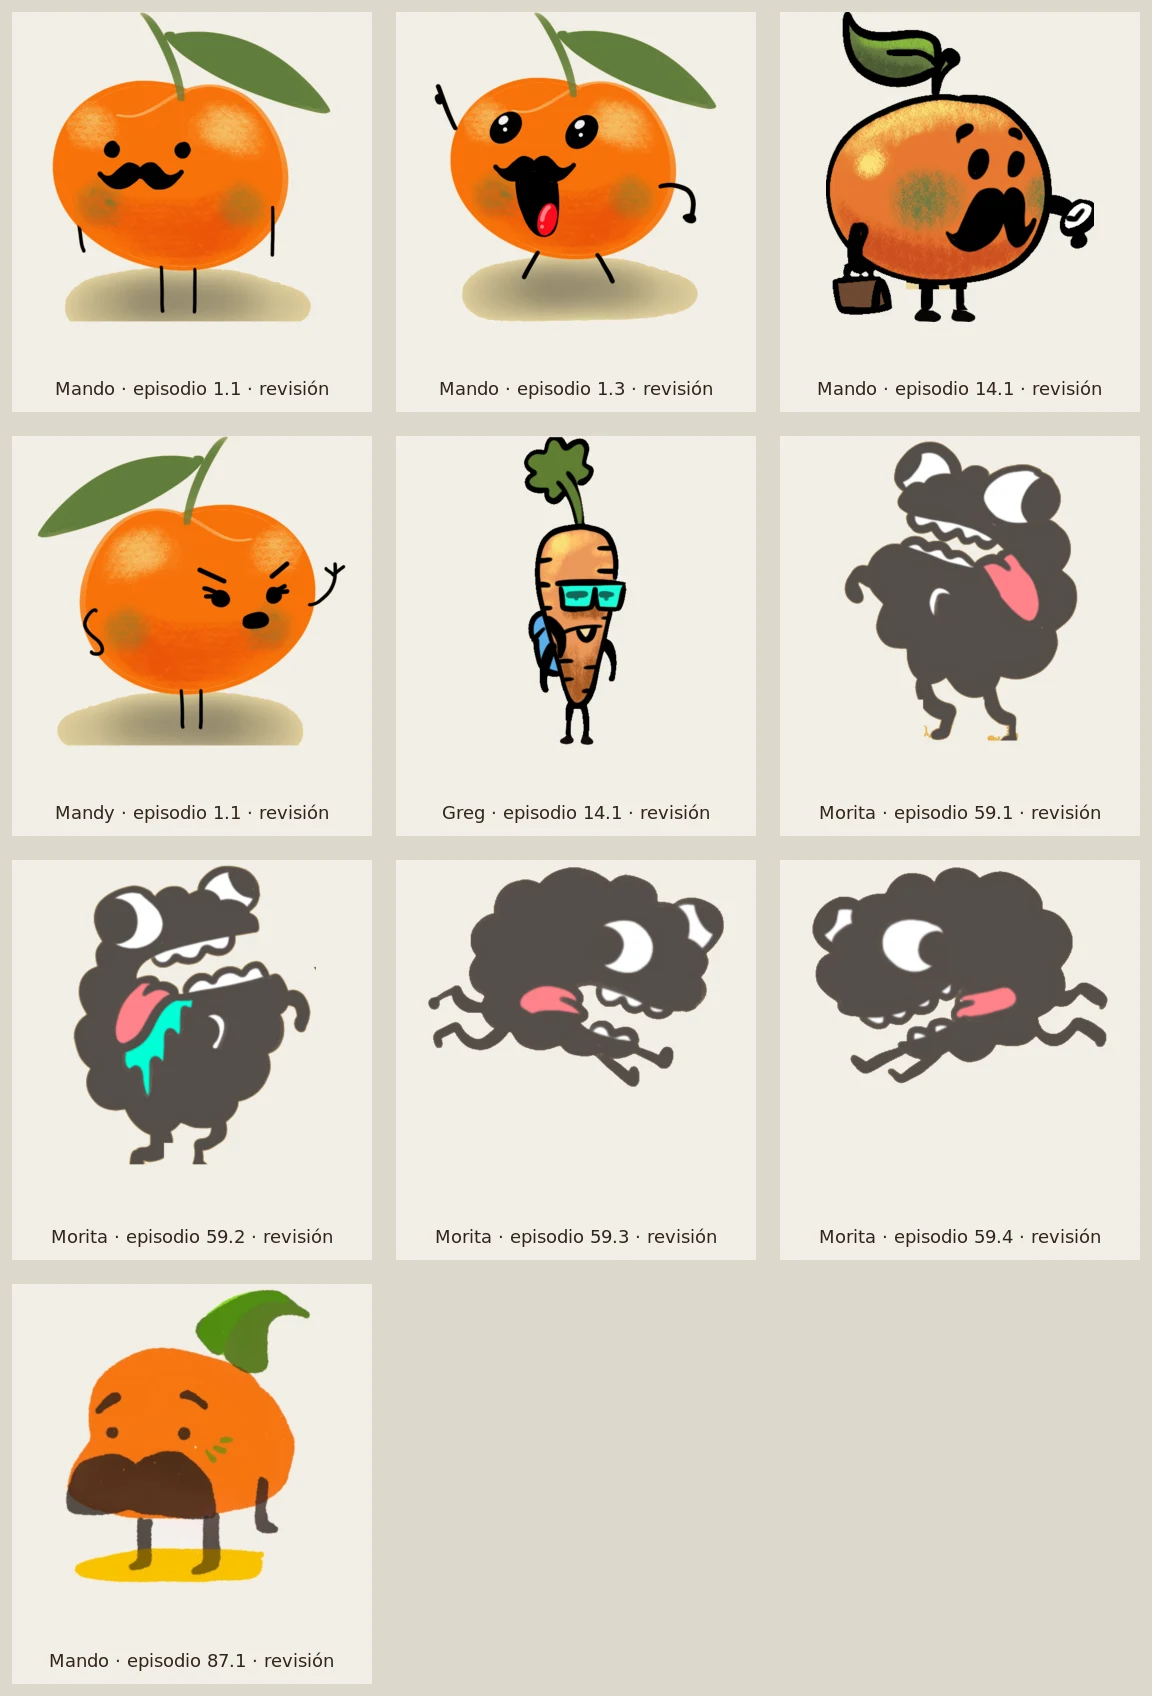
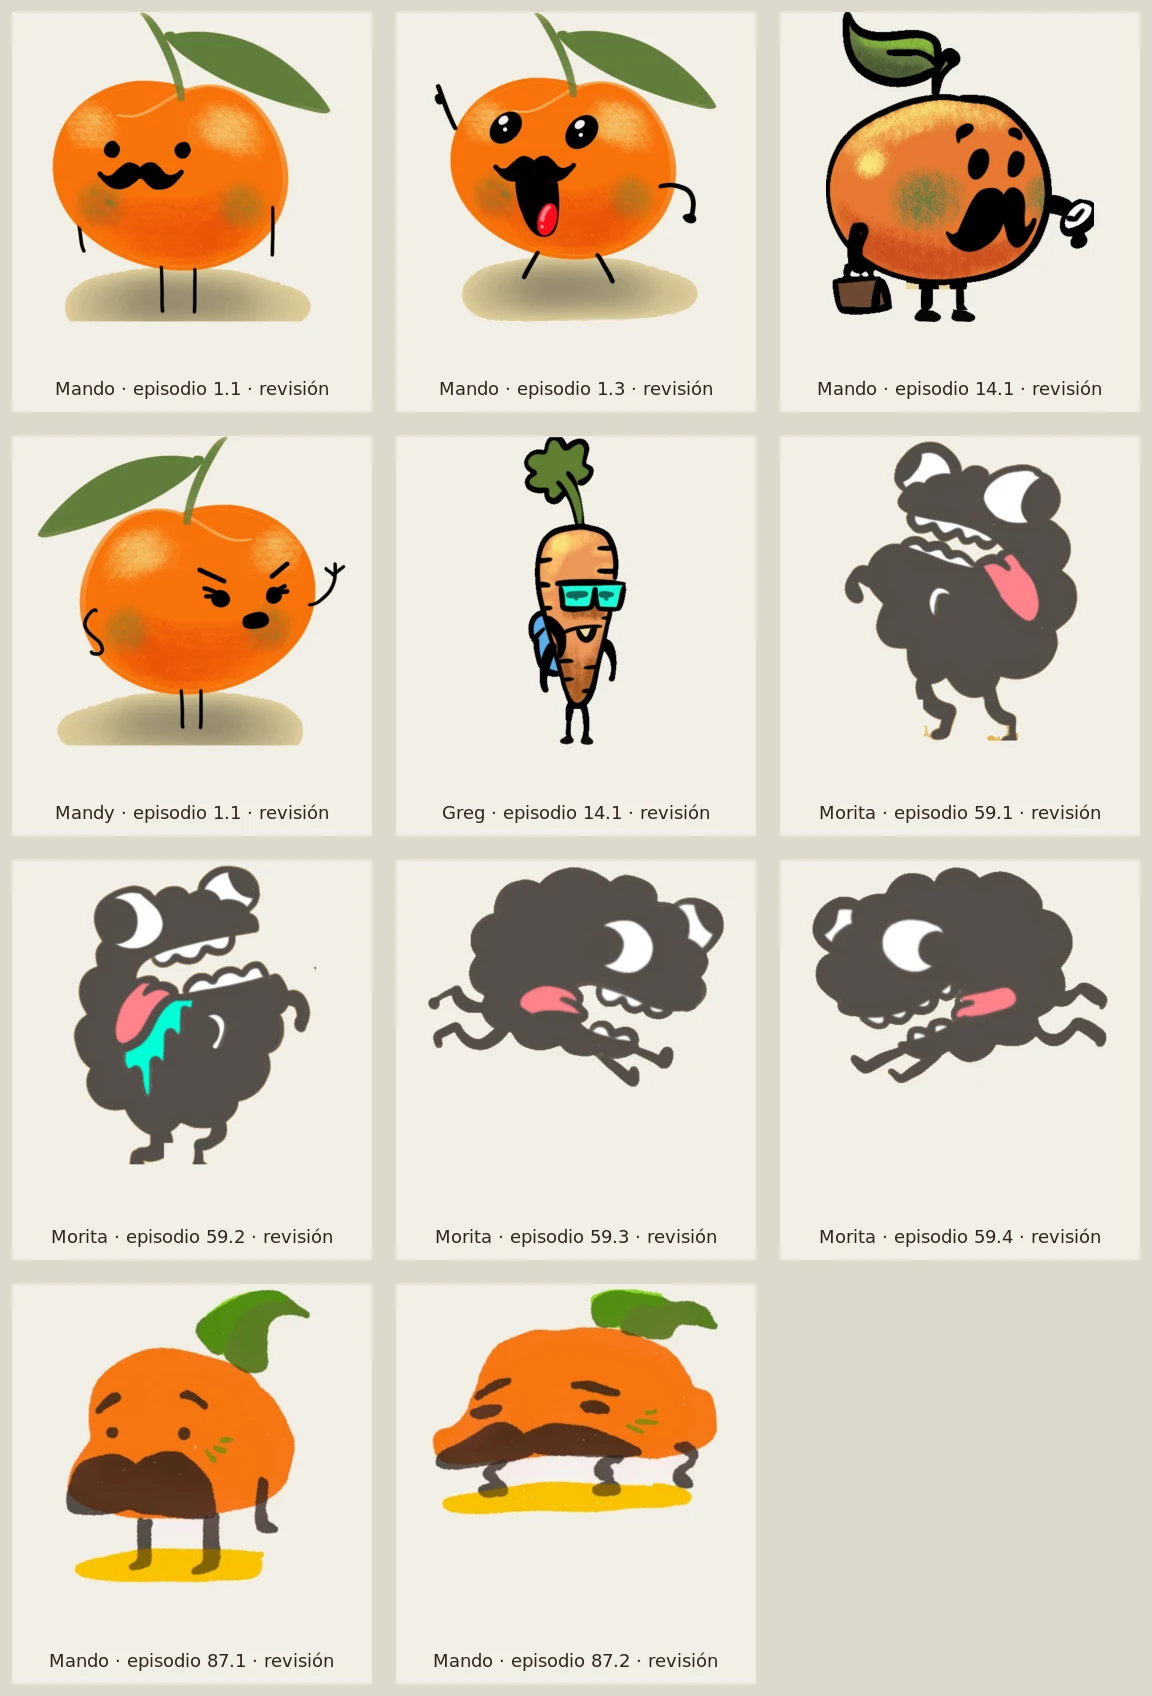
Add more Mando and object cutout drafts

Changed region(s): [[0.3438, 0.75, 0.6562, 1.0]]

diff --git a/editor.js b/editor.js
@@ -65,7 +65,8 @@
     { name: 'Sticker existente · pack 05', aliases: ['sticker 5', 'pack 5', 'logo'], src: 'assets/stickers/sticker-pack-05.webp', source: 'assets/stickers/sticker-pack-05.webp', note: 'Asset cuadrado opaco del pack existente. Contiene el logotipo sobre un círculo amarillo; se conserva como referencia, no como recorte de personaje.', reviewKind: 'existing-sticker' }
   ].map(resource => ({ ...resource, category: 'sticker', approvedCutout: false, reviewOnly: true }));
   const reviewObjectCutouts = [
-    { name: 'Clip de papel · episodio 85.3', aliases: ['clip', 'paperclip', 'sujetapapeles', 'episodio 85'], src: 'assets/objects/review/paperclip-episode-85-3-review.png', source: 'assets/episodes/ep-085-lo-que-siempre-te-pasa/85.3.png', note: 'Recorte en líneas grises de un clip personificado con brazos y piernas. No se le asignó nombre ni se decidió si debe catalogarse como objeto o personaje.', reviewKind: 'object-cutout' }
+    { name: 'Clip de papel · episodio 85.3', aliases: ['clip', 'paperclip', 'sujetapapeles', 'episodio 85'], src: 'assets/objects/review/paperclip-episode-85-3-review.png', source: 'assets/episodes/ep-085-lo-que-siempre-te-pasa/85.3.png', note: 'Recorte en líneas grises de un clip personificado con brazos y piernas. No se le asignó nombre ni se decidió si debe catalogarse como objeto o personaje.', reviewKind: 'object-cutout' },
+    { name: 'Sobre personificado · episodio 85.1', aliases: ['sobre', 'carta', 'episodio 85'], src: 'assets/objects/review/envelope-episode-85-1-review.png', source: 'assets/episodes/ep-085-lo-que-siempre-te-pasa/85.1.png', note: 'Recorte de la figura de sobre con cara y extremidades. Sigue en revisión para confirmar si la biblioteca debe clasificarlo como objeto o personaje.', reviewKind: 'object-cutout' }
   ].map(resource => ({ ...resource, category: 'object', approvedCutout: false, reviewOnly: true }));
   const backgroundColors = [
     { name: 'Blanco limpio', color: '#FFFFFF', source: 'Base' },

diff --git a/editor-service-worker.js b/editor-service-worker.js
@@ -27,7 +27,9 @@ const APP_SHELL = [
   '/assets/characters/review/morita-episode-59-3-review.png',
   '/assets/characters/review/morita-episode-59-4-review.png',
   '/assets/characters/review/mando-episode-87-1-review.png',
+  '/assets/characters/review/mando-episode-87-2-review.png',
   '/assets/objects/review/paperclip-episode-85-3-review.png',
+  '/assets/objects/review/envelope-episode-85-1-review.png',
   '/assets/backgrounds/review/sky-clouds-episode-85-1.png',
   '/assets/stickers/sticker-pack-01.webp',
   '/assets/stickers/sticker-pack-02.webp',

diff --git a/docs/art-review/cutouts/build-mando-87-2-review.py b/docs/art-review/cutouts/build-mando-87-2-review.py
@@ -1,0 +1,40 @@
+#!/usr/bin/env python3
+"""Isolate Mando's flattened pose from episode 87.2 for review only."""
+from collections import deque
+from pathlib import Path
+import numpy as np
+from PIL import Image
+
+ROOT = Path(__file__).resolve().parents[3]
+SOURCE = ROOT / "assets/episodes/ep-087-eso-es-mental-decian-nada-facil-la-temperatura-en-la-cap/87.2.png"
+OUTPUT = ROOT / "assets/characters/review/mando-episode-87-2-review.png"
+
+# Keep the original flattened character and ground mark; leave out the panel caption.
+im = Image.open(SOURCE).convert("RGBA").crop((130, 275, 625, 665))
+pixels = np.asarray(im).copy()
+rgb = pixels[:, :, :3].astype(np.int16)
+h, w = rgb.shape[:2]
+background = (rgb.min(axis=2) > 210) & ((rgb.max(axis=2) - rgb.min(axis=2)) < 34)
+seen = np.zeros((h, w), dtype=bool)
+queue = deque()
+for x in range(w):
+    for y in (0, h - 1):
+        if background[y, x] and not seen[y, x]:
+            seen[y, x] = True
+            queue.append((y, x))
+for y in range(h):
+    for x in (0, w - 1):
+        if background[y, x] and not seen[y, x]:
+            seen[y, x] = True
+            queue.append((y, x))
+while queue:
+    y, x = queue.popleft()
+    for ny, nx in ((y - 1, x), (y + 1, x), (y, x - 1), (y, x + 1)):
+        if 0 <= ny < h and 0 <= nx < w and background[ny, nx] and not seen[ny, nx]:
+            seen[ny, nx] = True
+            queue.append((ny, nx))
+pixels[seen, 3] = 0
+# A detached handwritten pointer sits above the character at this position.
+pixels[:60, 140:215, 3] = 0
+Image.fromarray(pixels, "RGBA").save(OUTPUT)
+print(OUTPUT)

diff --git a/docs/art-review/cutouts/build-envelope-85-1-review.py b/docs/art-review/cutouts/build-envelope-85-1-review.py
@@ -1,0 +1,22 @@
+#!/usr/bin/env python3
+"""Extract the personified envelope from episode 85.1 for review only."""
+from pathlib import Path
+import numpy as np
+from PIL import Image
+
+ROOT = Path(__file__).resolve().parents[3]
+SOURCE = ROOT / "assets/episodes/ep-085-lo-que-siempre-te-pasa/85.1.png"
+OUTPUT = ROOT / "assets/objects/review/envelope-episode-85-1-review.png"
+
+# Hue and luminance retain the cream paper, colored details, and dark ink while
+# removing the painted cyan sky and pale page. No outlines or anatomy are redrawn.
+im = Image.open(SOURCE).convert("RGBA").crop((440, 315, 725, 500))
+pixels = np.asarray(im).copy()
+rgb = pixels[:, :, :3].astype(np.float32)
+hsv = np.asarray(Image.fromarray(pixels[:, :, :3], "RGB").convert("HSV"))
+hue, saturation = hsv[:, :, 0], hsv[:, :, 1]
+luminance = 0.2126 * rgb[:, :, 0] + 0.7152 * rgb[:, :, 1] + 0.0722 * rgb[:, :, 2]
+keep = ((saturation > 32) & ((hue < 48) | (hue > 245))) | (luminance < 145)
+pixels[:, :, 3] = np.minimum(pixels[:, :, 3], np.where(keep, 255, 0).astype(np.uint8))
+Image.fromarray(pixels, "RGBA").save(OUTPUT)
+print(OUTPUT)

diff --git a/docs/art-review/cutouts/README.md b/docs/art-review/cutouts/README.md
@@ -34,9 +34,9 @@ Los cuatro archivos aparecen en Componentes → Personajes como **recortes en re
 
 ## Inventario de los episodios 85 y 87
 
-`mando-episode-87-1-review.png` es un recorte de la pose de Mando del episodio 87.1. Conserva los píxeles de esa etapa anterior del dibujo y el óvalo amarillo del suelo; se excluyó el texto manuscrito. Sigue pendiente de revisión, y no es una guía de proporciones para rig. El proceso está en [`build-mando-87-1-review.py`](build-mando-87-1-review.py).
+`mando-episode-87-1-review.png` y `mando-episode-87-2-review.png` son dos recortes de las poses de Mando del episodio 87. Conservan los píxeles de esa etapa anterior del dibujo y los óvalos amarillos del suelo; se excluyeron las anotaciones manuscritas. Siguen pendientes de revisión y no son guías de proporciones para rig. Los procedimientos están en [`build-mando-87-1-review.py`](build-mando-87-1-review.py) y [`build-mando-87-2-review.py`](build-mando-87-2-review.py).
 
-`paperclip-episode-85-3-review.png` aísla las líneas grises del clip personificado del episodio 85.3. No se le inventó un nombre ni se decidió si debe tratarse como personaje u objeto. El recorte se basa en luminancia para conservar el trazo gris; necesita revisión de bordes antes de poder insertarse. Ver [`build-paperclip-85-3-review.py`](build-paperclip-85-3-review.py).
+`paperclip-episode-85-3-review.png` aísla las líneas grises del clip personificado del episodio 85.3. `envelope-episode-85-1-review.png` recorta el sobre personificado de 85.1. No se les inventó un nombre ni se decidió si deben tratarse como personajes u objetos. Ambos siguen en revisión para comprobar bordes y clasificación. Ver [`build-paperclip-85-3-review.py`](build-paperclip-85-3-review.py) y [`build-envelope-85-1-review.py`](build-envelope-85-1-review.py).
 
 `sky-clouds-episode-85-1.png` conserva una región despejada del cielo pintado y las nubes de 85.1, sin personajes. Es una muestra panorámica de fondo, no una escena reconstruida. Su extracción reproducible está en [`build-episode-85-sky-background.py`](build-episode-85-sky-background.py); queda en revisión antes de insertarse.
 
@@ -46,6 +46,6 @@ Las propuestas `sofa-azul-episodio-51-1-borrador*.png` son estudios fallidos, no
 
 La primera alternativa, `sofa-azul-episodio-09-2-borrador.png`, se conserva como versión anterior; tiene una forma más recta y una paleta menos saturada, y queda supersedida por la propuesta del episodio 51.
 
-Los diez recortes de personaje se muestran en el editor únicamente para revisión; ninguno se añadió al manifiesto de componentes aprobados. Los del episodio 14 incluyen retoques localizados en las puntas inferiores; los del episodio 1 conservan sombras; Morita 59.1 tiene algo de sombra de contacto y 59.2 conserva el efecto turquesa; Mando 87.1 conserva el óvalo amarillo del suelo. El estudio del sofá está rechazado y no es reutilizable. La hoja de contacto se regenera con [`build-review-contact-sheet.sh`](build-review-contact-sheet.sh).
+Los once recortes de personaje se muestran en el editor únicamente para revisión; ninguno se añadió al manifiesto de componentes aprobados. Los del episodio 14 incluyen retoques localizados en las puntas inferiores; los del episodio 1 conservan sombras; Morita 59.1 tiene algo de sombra de contacto y 59.2 conserva el efecto turquesa; Mando 87.1 y 87.2 conservan sus marcas amarillas de suelo. El estudio del sofá está rechazado y no es reutilizable. La hoja de contacto se regenera con [`build-review-contact-sheet.sh`](build-review-contact-sheet.sh).
 
 El original del episodio sigue intacto y la ficha de su aparición en el catálogo conserva su ruta de origen.
